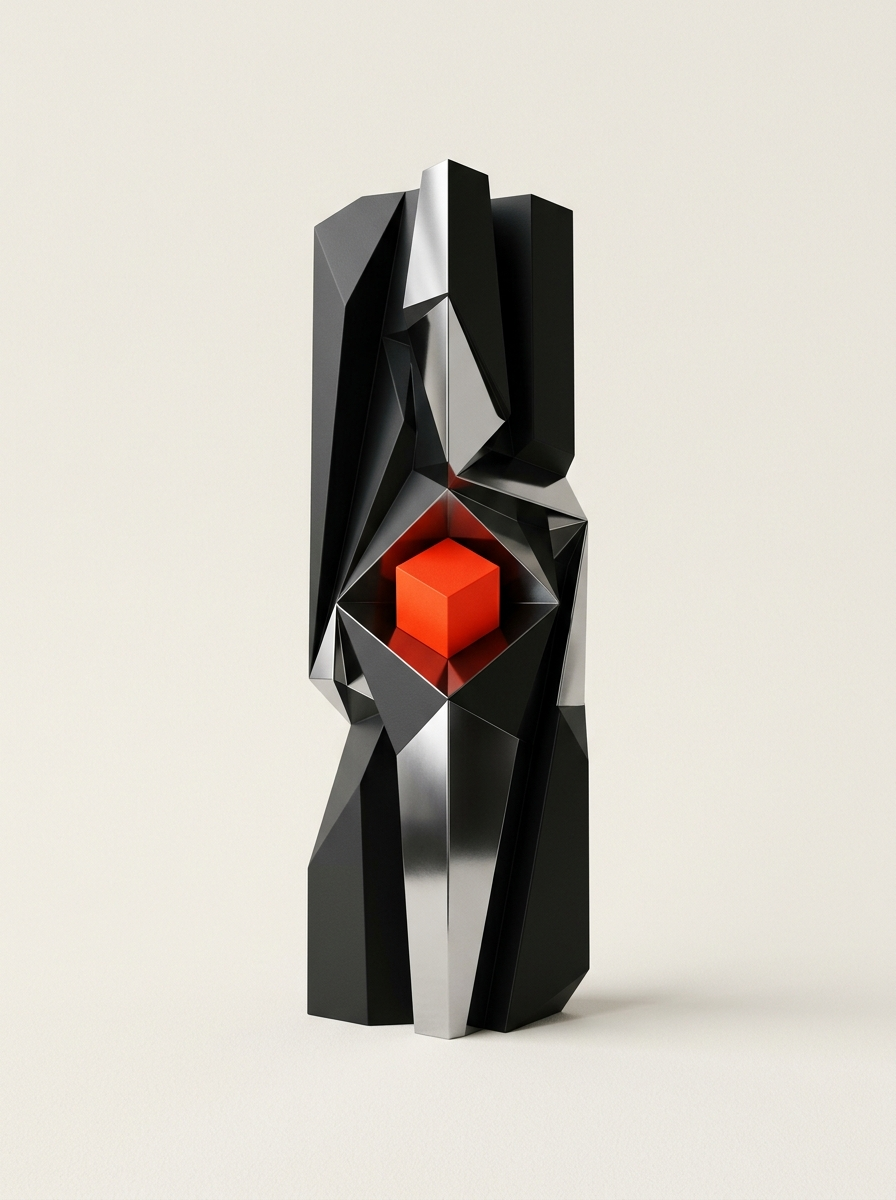
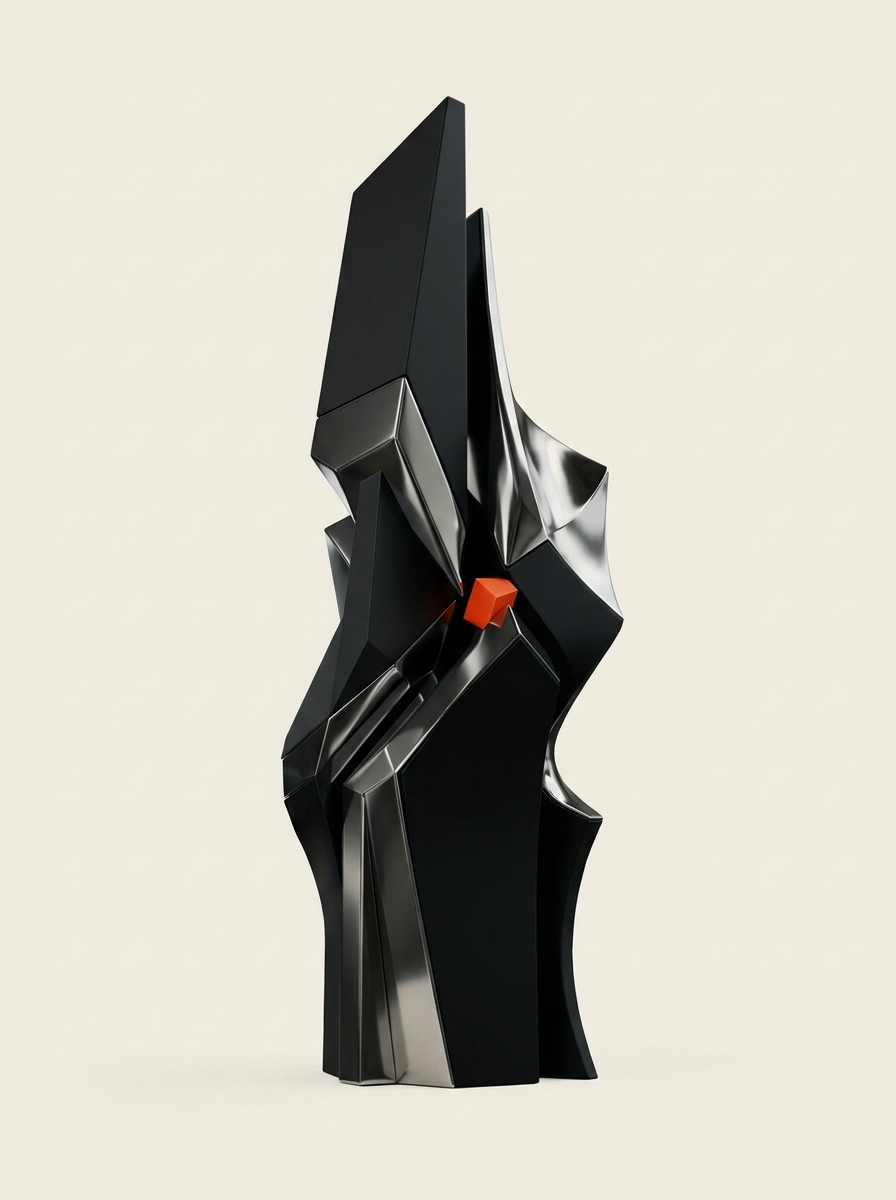
refactor(hero-statement): match exact design reference html/css specifications and typography

Changed region(s): [[0.3125, 0.0617, 0.875, 0.925]]

diff --git a/src/components/sections/Hero.tsx b/src/components/sections/Hero.tsx
@@ -10,92 +10,81 @@ export function Hero({ onMenuClick }: HeroProps) {
   const lastNameLetters = ["H", "I", "M", "A", "W", "A", "N"];
 
   return (
-    <section className="relative w-full min-h-screen flex flex-col justify-between bg-paper text-ink overflow-hidden select-none">
-      {/* 56px Top Bar */}
+    <section className="bg-paper text-ink relative flex flex-col justify-between min-h-screen w-full select-none overflow-hidden">
+      {/* TOP BAR (56px) */}
       <Nav onMenuClick={onMenuClick} />
 
-      {/* Main Hero Display Stage */}
-      <div className="relative w-full flex-1 flex flex-col justify-center px-5 md:px-10 my-auto py-2">
-        <div className="relative w-full max-w-[1440px] mx-auto">
-          {/* Line 1: FIRST NAME (Behind 3D Object, z-index: 5) */}
-          <div
-            aria-label="FIRZA"
-            className="relative z-5 w-full flex justify-between font-display font-black text-ink uppercase leading-[0.85] text-[17vw] sm:text-[17.5vw] md:text-[18vw] tracking-[-0.01em] select-none"
-          >
+      {/* HERO CENTER SECTION WITH INTERLEAVED SCULPTURAL OBJECT */}
+      <div className="relative flex-1 flex flex-col justify-center items-center px-5 md:px-10 overflow-hidden w-full">
+        {/* LINE 1: FIRST NAME (Passing BEHIND the 3D sculpture) */}
+        <div className="w-full flex justify-between items-center z-10 pointer-events-none">
+          <h1 className="giant-title font-display text-ink w-full text-center flex justify-between select-none">
             {firstNameLetters.map((char, index) => (
-              <span key={`first-${index}`} className="block">
-                {char}
-              </span>
+              <span key={`first-${index}`}>{char}</span>
             ))}
-          </div>
+          </h1>
+        </div>
 
-          {/* Centered Sculptural 3D Object (Middle Layer, z-index: 10) */}
-          <div className="absolute left-1/2 top-1/2 -translate-x-1/2 -translate-y-[52%] z-10 flex flex-col items-center pointer-events-none">
-            <div className="relative w-[130px] sm:w-[200px] md:w-[270px] lg:w-[310px] max-h-[58vh] flex items-center justify-center">
-              <img
-                src="/hero-sculpture.jpg"
-                alt="Sculptural abstract monolithic 3D object in ink, chrome, and signal highlight"
-                className="w-full h-auto object-contain mix-blend-multiply select-none"
-                loading="eager"
-              />
-            </div>
-          </div>
-
-          {/* Line 2: LAST NAME (In Front of 3D Object, z-index: 20) */}
-          <div
-            aria-label="HIMAWAN"
-            className="relative z-20 w-full flex justify-between font-display font-black text-ink uppercase leading-[0.85] text-[17vw] sm:text-[17.5vw] md:text-[18vw] tracking-[-0.01em] select-none mt-4 sm:mt-6 md:mt-8"
-          >
-            {lastNameLetters.map((char, index) => (
-              <span key={`last-${index}`} className="block">
-                {char}
-              </span>
-            ))}
-          </div>
-
-          {/* Placeholder Indicator Box (Cleanly positioned below Line 2, z-index: 30) */}
-          <div className="relative z-30 flex justify-center mt-3 sm:mt-5">
-            <div className="border border-ink bg-paper px-2.5 py-0.5 text-center font-mono text-[9px] sm:text-[11px] md:text-xs text-ink tracking-tight uppercase whitespace-nowrap">
+        {/* CENTERED 3D SCULPTURAL OBJECT (Overlaps First and Second Name) */}
+        <div className="absolute inset-0 flex items-center justify-center z-20 pointer-events-none">
+          <div className="relative w-[280px] h-[450px] sm:w-[340px] sm:h-[540px] md:w-[380px] md:h-[600px] flex flex-col items-center justify-center">
+            {/* Rendered Image */}
+            <img
+              src="/hero-sculpture.png"
+              alt="Monolithic sculptural 3D object in ink and chrome metal with signal red accent (Placeholder render)"
+              className="w-full h-full object-contain mix-blend-multiply"
+              loading="eager"
+            />
+            {/* Editorial Mono Placeholder Tag */}
+            <div className="absolute bottom-4 bg-paper/90 px-2 py-0.5 border border-ink text-[11px] font-mono tracking-widest uppercase text-ink whitespace-nowrap">
               [PLACEHOLDER // 3D SCULPTURE OBJECT]
             </div>
           </div>
         </div>
+
+        {/* LINE 2: LAST NAME (Passing IN FRONT OF the 3D sculpture) */}
+        <div className="w-full flex justify-between items-center z-30 pointer-events-none">
+          <div
+            aria-hidden="true"
+            className="giant-title font-display text-ink w-full text-center flex justify-between select-none"
+          >
+            {lastNameLetters.map((char, index) => (
+              <span key={`last-${index}`}>{char}</span>
+            ))}
+          </div>
+        </div>
       </div>
 
-      {/* Bottom Information Row */}
-      <footer className="relative z-20 w-full px-5 md:px-10 pb-6 md:pb-10 pt-2 max-w-[1440px] mx-auto">
-        <div className="grid grid-cols-1 md:grid-cols-12 gap-6 items-end">
-          {/* Left: Positioning Sentence (max 4 columns wide) */}
-          <div className="md:col-span-5 lg:col-span-4">
-            <p className="font-body text-[15px] sm:text-[17px] md:text-[20px] lg:text-[22px] leading-[1.38] text-ink">
-              {personalInfo.positioning}
-            </p>
-          </div>
+      {/* BOTTOM ROW */}
+      <footer className="w-full px-5 md:px-10 pb-8 pt-4 grid grid-cols-1 md:grid-cols-12 gap-6 md:gap-0 items-end z-40 bg-paper">
+        {/* Left: Positioning (max 4 columns) */}
+        <div className="col-span-1 md:col-span-5 pr-0 md:pr-6">
+          <p className="font-body text-[17px] sm:text-[19px] md:text-[22px] leading-[1.35] text-ink font-normal tracking-tight max-w-[500px]">
+            {personalInfo.positioning}
+          </p>
+        </div>
 
-          {/* Center: Scroll Indicator (Desktop) */}
-          <div className="hidden md:flex md:col-span-2 lg:col-span-4 justify-center items-end">
-            <div className="flex flex-col items-center select-none pb-1">
-              <span className="font-mono text-xs uppercase tracking-wider text-ink">
-                SCROLL
-              </span>
-              <div className="w-[1px] h-[40px] bg-ink mt-2" />
-            </div>
-          </div>
+        {/* Center: Scroll + 40px line */}
+        <div className="hidden md:flex col-span-2 flex-col items-center justify-end pb-1">
+          <span className="font-mono text-[14px] text-ink uppercase tracking-wider mb-2">
+            Scroll
+          </span>
+          <div className="w-[1px] h-[40px] bg-ink"></div>
+        </div>
 
-          {/* Right: City & Availability */}
-          <div className="md:col-span-5 lg:col-span-4 flex flex-row md:flex-col justify-between md:justify-end items-end font-mono text-xs md:text-sm text-ink space-y-0 md:space-y-1">
-            <p>Based in {personalInfo.location}</p>
-            <p>{personalInfo.availability}</p>
-          </div>
+        {/* Right: Location & Availability (2 lines in DM Mono) */}
+        <div className="col-span-1 md:col-span-5 flex flex-row md:flex-col justify-between md:justify-end items-end text-right font-mono text-[14px] leading-relaxed text-ink">
+          <span>Based in {personalInfo.location}</span>
+          <span>{personalInfo.availability}</span>
+        </div>
 
-          {/* Mobile-only Scroll Indicator */}
-          <div className="flex md:hidden justify-center items-center pt-2">
-            <div className="flex flex-col items-center select-none">
-              <span className="font-mono text-[11px] uppercase tracking-wider text-ink">
-                SCROLL
-              </span>
-              <div className="w-[1px] h-[32px] bg-ink mt-1.5" />
-            </div>
+        {/* Mobile-only Scroll */}
+        <div className="flex md:hidden col-span-1 justify-center items-center pt-2">
+          <div className="flex flex-col items-center">
+            <span className="font-mono text-[11px] text-ink uppercase tracking-wider mb-1.5">
+              Scroll
+            </span>
+            <div className="w-[1px] h-[32px] bg-ink"></div>
           </div>
         </div>
       </footer>

diff --git a/src/components/sections/Statement.tsx b/src/components/sections/Statement.tsx
@@ -5,28 +5,21 @@ import { useReducedMotion } from "../../hooks/useReducedMotion.ts";
 
 export function Statement() {
   const sectionRef = useRef<HTMLElement>(null);
-  const textRef = useRef<HTMLHeadingElement>(null);
+  const unrevealedRef = useRef<HTMLSpanElement>(null);
   const reducedMotion = useReducedMotion();
-
-  // Words that animate from 0.25 to 1.0 on scroll
-  const dimmedWords = personalInfo.statement.dimmed.split(" ");
 
   useGSAP(
     () => {
-      if (reducedMotion) return;
+      if (reducedMotion || !unrevealedRef.current || !sectionRef.current) return;
 
-      const dimmedWordElements = sectionRef.current?.querySelectorAll(".dimmed-word");
-      if (!dimmedWordElements || dimmedWordElements.length === 0) return;
-
-      gsap.to(dimmedWordElements, {
+      gsap.to(unrevealedRef.current, {
         scrollTrigger: {
           trigger: sectionRef.current,
-          start: "top 40%",
-          end: "bottom 30%",
-          scrub: 0.5,
+          start: "top 45%",
+          end: "bottom 35%",
+          scrub: true,
         },
         opacity: 1,
-        stagger: 0.05,
         ease: "none",
       });
     },
@@ -37,36 +30,28 @@ export function Statement() {
     <section
       ref={sectionRef}
       aria-label="Personal Statement"
-      className="relative w-full min-h-screen flex items-center bg-ink text-paper px-5 md:px-10 py-16 md:py-20 select-none overflow-hidden"
+      className="relative w-full min-h-screen flex flex-col justify-center bg-ink text-paper px-5 md:px-10 overflow-hidden select-none"
     >
-      <div className="w-full max-w-[1440px] mx-auto">
-        {/* Left-aligned within 10 columns (max-w-[83.333%] of 12 cols) */}
-        <h2
-          ref={textRef}
-          className="font-display font-extrabold uppercase leading-[0.92] text-[7.5vw] sm:text-[6.8vw] md:text-[6.1vw] lg:text-[6.2vw] tracking-normal text-left max-w-full lg:max-w-[88%]"
-        >
-          {/* First 60% words: Full Paper */}
-          <span className="text-paper">{personalInfo.statement.lead} </span>
-
-          {/* Exactly ONE keyword in Signal (#FF4A1C) */}
-          <span className="text-signal">{personalInfo.statement.keyword} </span>
-
-          {/* Remaining of initial 60%: Full Paper */}
-          <span className="text-paper">{personalInfo.statement.revealed} </span>
-
-          {/* Remaining 40% words: Paper at 25% opacity for scroll reveal */}
-          {dimmedWords.map((word, index) => (
+      {/* 12-column grid layout container (max-w: 1360px, gap: 24px) */}
+      <div className="grid grid-cols-1 md:grid-cols-12 gap-6 w-full max-w-[1360px] mx-auto items-center">
+        {/* 10 columns left-aligned statement */}
+        <div className="col-span-1 md:col-span-10">
+          <h2 className="font-display font-extrabold uppercase text-[7.5vw] md:text-[6.8vw] leading-[0.94] tracking-normal [word-spacing:0.05em] text-left">
+            <span className="text-paper">{personalInfo.statement.lead}</span>{" "}
+            <span className="text-signal">{personalInfo.statement.keyword}</span>{" "}
+            <span className="text-paper">{personalInfo.statement.revealed}</span>{" "}
             <span
-              key={`dimmed-${index}`}
-              className={`dimmed-word inline-block ${
-                reducedMotion ? "opacity-100 text-paper" : "opacity-25 text-paper"
+              ref={unrevealedRef}
+              className={`transition-opacity duration-300 ${
+                reducedMotion
+                  ? "opacity-100 text-paper"
+                  : "text-paper/25"
               }`}
             >
-              {word}
-              {index < dimmedWords.length - 1 ? "\u00A0" : ""}
+              {personalInfo.statement.unrevealed}
             </span>
-          ))}
-        </h2>
+          </h2>
+        </div>
       </div>
     </section>
   );

diff --git a/src/components/layout/Nav.tsx b/src/components/layout/Nav.tsx
@@ -6,22 +6,22 @@ export interface NavProps {
 
 export function Nav({ onMenuClick }: NavProps) {
   return (
-    <header className="w-full h-[56px] flex items-center justify-between px-5 md:px-10 bg-paper text-ink select-none relative z-30">
+    <header className="w-full h-[56px] px-5 md:px-10 flex items-center justify-between border-b border-transparent z-40 bg-paper select-none">
       {/* Wordmark Left */}
       <a
         href="/"
-        className="font-mono text-xs md:text-sm uppercase tracking-wider text-ink hover:text-signal transition-colors"
+        className="font-mono text-[14px] tracking-tight uppercase font-medium text-ink hover:text-signal transition-colors duration-150"
       >
         {siteConfig.name}
       </a>
 
-      {/* Centered Navigation Links (Desktop) */}
-      <nav aria-label="Main navigation" className="hidden md:flex items-center gap-8 font-mono text-sm text-ink">
+      {/* Centered Nav Links */}
+      <nav aria-label="Main navigation" className="hidden md:flex items-center gap-10 font-mono text-[14px]">
         {siteConfig.navLinks.map((link) => (
           <a
             key={link.label}
             href={link.href}
-            className="hover:text-signal transition-colors"
+            className="text-ink hover:text-signal transition-colors duration-150"
           >
             {link.label}
           </a>
@@ -33,7 +33,7 @@ export function Nav({ onMenuClick }: NavProps) {
         type="button"
         onClick={onMenuClick}
         aria-label="Open navigation menu"
-        className="font-mono text-xs md:text-sm text-ink hover:text-signal transition-colors cursor-pointer"
+        className="font-mono text-[14px] cursor-pointer text-ink hover:text-signal transition-colors duration-150 bg-transparent border-0 p-0"
       >
         Menu
       </button>

diff --git a/src/content/personal.ts b/src/content/personal.ts
@@ -18,6 +18,7 @@ export interface PersonalInfo {
     keyword: string;
     revealed: string;
     dimmed: string;
+    unrevealed: string;
     full: string;
   };
   bio: string[];
@@ -41,6 +42,8 @@ export const personalInfo: PersonalInfo = {
     revealed:
       "ABOUT LATENCY, UNCOMPROMISING ON PRECISION. WHETHER SCALING RECOMMENDATION ENGINES IN NODE OR INSPECTING MONGOOSE QUERIES AT MIDNIGHT,",
     dimmed:
+      "I CRAFT RESILIENT BACKENDS THAT NEVER CRUMBLE UNDER LOAD AND MAKE COMPLEX ARCHITECTURES LOOK EFFORTLESS.",
+    unrevealed:
       "I CRAFT RESILIENT BACKENDS THAT NEVER CRUMBLE UNDER LOAD AND MAKE COMPLEX ARCHITECTURES LOOK EFFORTLESS.",
     full:
       "I BUILD SYSTEMS LIKE I TUNE HARDWARE: RELENTLESS ABOUT LATENCY, UNCOMPROMISING ON PRECISION. WHETHER SCALING RECOMMENDATION ENGINES IN NODE OR INSPECTING MONGOOSE QUERIES AT MIDNIGHT, I CRAFT RESILIENT BACKENDS THAT NEVER CRUMBLE UNDER LOAD AND MAKE COMPLEX ARCHITECTURES LOOK EFFORTLESS.",

diff --git a/src/styles/globals.css b/src/styles/globals.css
@@ -70,3 +70,12 @@ body {
 .tabular-nums {
   font-variant-numeric: tabular-nums;
 }
+
+/* Giant display title sizing to bleed edge-to-edge across canvas */
+.giant-title {
+  font-size: clamp(64px, 17.8vw, 260px);
+  line-height: 0.85;
+  letter-spacing: -0.01em;
+  text-transform: uppercase;
+  font-weight: 900;
+}
